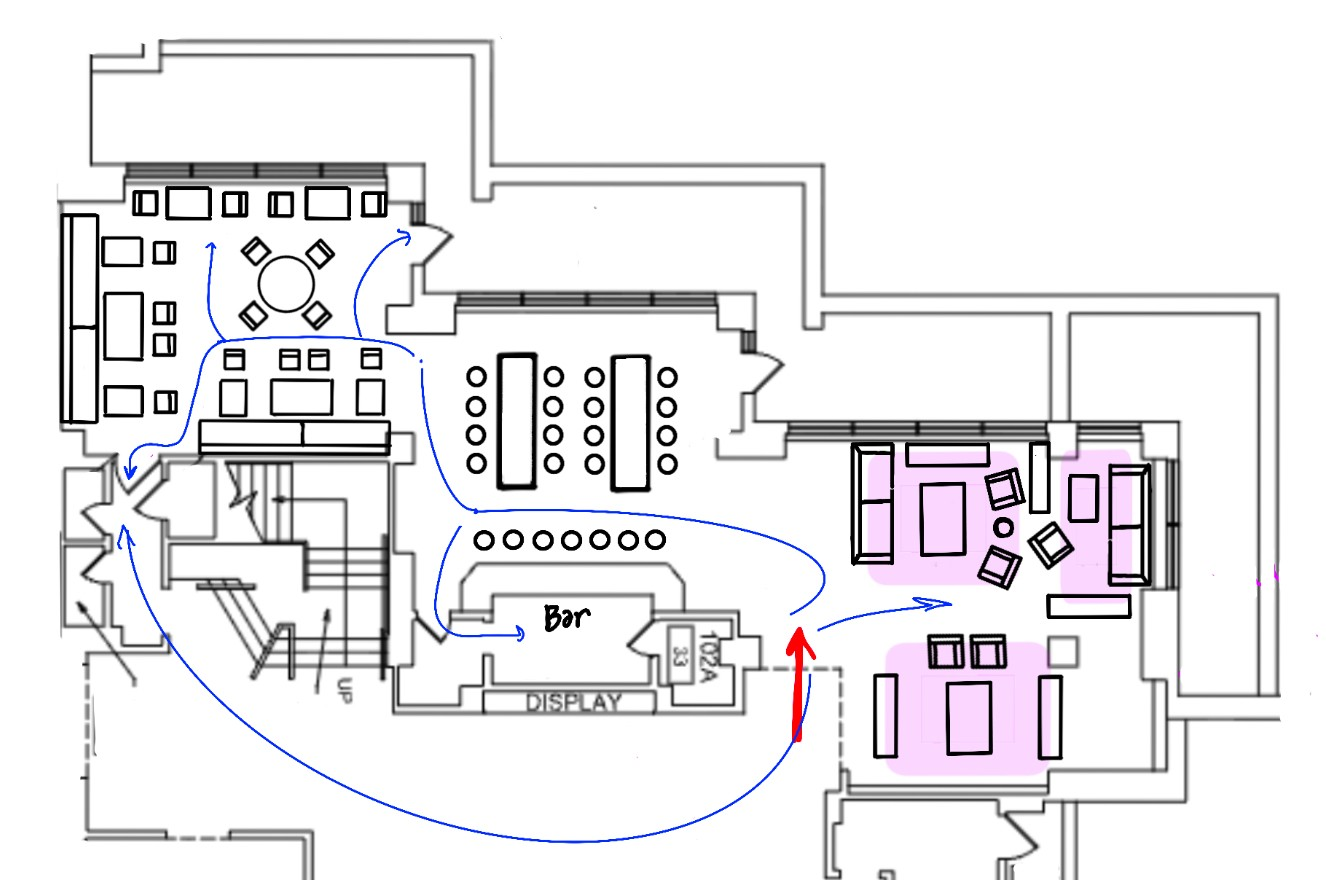
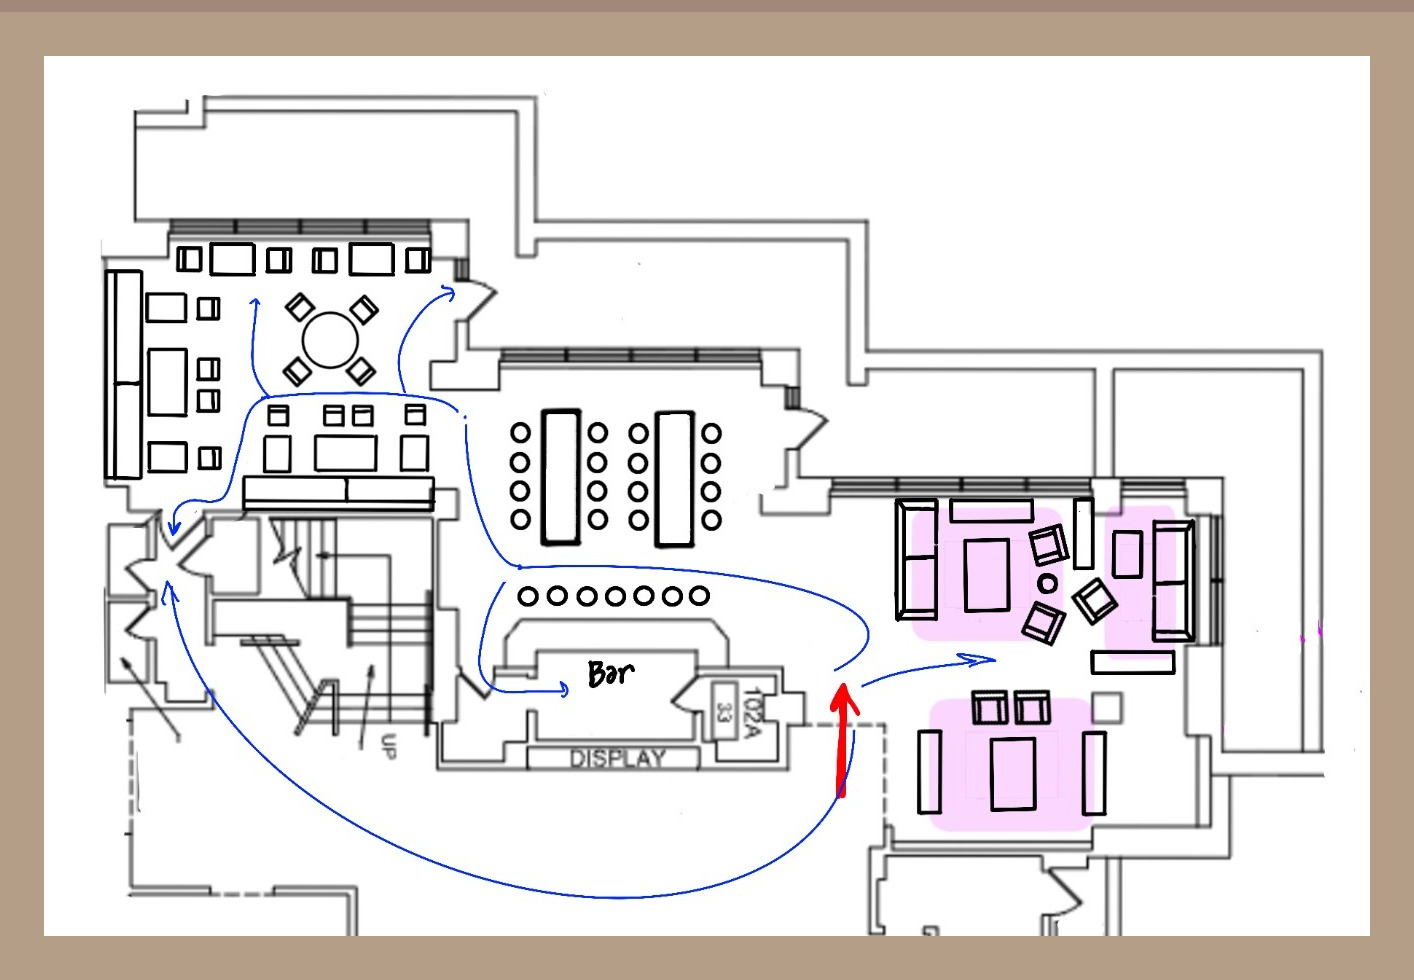
Statler: lighter brown backgrounds on all floorplans
Claude-Session: https://claude.ai/code/session_01UHrP7f3T6PvekE7nxDfNFQ

diff --git a/content/projects/statler-hotel-redesign.js b/content/projects/statler-hotel-redesign.js
@@ -32,11 +32,11 @@ addProject({
         "Long tables that only fit big parties",
         "Lounge seating that sat unused"
       ],
-        src: "assets/digital/statler/floorplan-before-clean.jpg?v=202611230440", ratio: "1326/880", caption: "The original layout and how guests moved through it",
-        back: { src: "assets/digital/statler/floorplan-before.jpg?v=202611230444", ratio: "1326/880", alt: "The original layout with my handwritten notes" },
+        src: "assets/digital/statler/floorplan-before-clean.jpg?v=202611230810", ratio: "1414/980", caption: "The original layout and how guests moved through it",
+        back: { src: "assets/digital/statler/floorplan-before.jpg?v=202611230810", ratio: "1414/980", alt: "The original layout with my handwritten notes" },
         flipLabel: "Original floorplan. Press to flip to my annotated notes.", flipHint: "↻ Click the plan to see my notes", flipBackHint: "↻ Click to flip back" },
       { label: "After", title: "The New Floorplan", body: "Guests come in from the elevator and retail entrance, pass the café, and are led by the grand stair toward the bar.",
-        src: "assets/digital/statler/floorplan-hd.jpg?v=202611230420", ratio: "2952/1596", caption: "Circulation from the entrance, past the café and stairs, to the bar" }
+        src: "assets/digital/statler/floorplan-hd.jpg?v=202611230810", ratio: "2952/1596", caption: "Circulation from the entrance, past the café and stairs, to the bar" }
     ]},
     // café full width, bar and staircase side by side below (bob's pick "E", 2026-11-23)
     { group: "The Spaces", type: "gallery", heading: "Three Zones", columns: 3, images: [

diff --git a/index.html b/index.html
@@ -8,13 +8,13 @@
 <link rel="preconnect" href="https://fonts.googleapis.com">
 <link rel="preconnect" href="https://fonts.gstatic.com" crossorigin>
 <link rel="stylesheet" href="https://fonts.googleapis.com/css2?family=Archivo:wdth,wght@62..125,700..900&family=Bricolage+Grotesque:opsz,wdth,wght@12..96,75..100,400..800&family=Instrument+Sans:wght@400;500;600&family=Instrument+Serif:ital@0;1&family=Syne:wght@700..800&family=Archivo+Narrow:wght@500;600;700&family=Caveat:wght@500;600&family=Inter:wght@400;500;600&family=Inter+Tight:wght@400;500;600;700&family=Roboto+Mono:wght@400;500&family=DM+Sans:opsz,wght@9..40,400;9..40,500&display=swap">
-<link rel="stylesheet" href="css/style.css?v=202611230758">
+<link rel="stylesheet" href="css/style.css?v=202611230802">
 </head>
 <body>
 <div id="app"></div>
-<script>window.SITE_VERSION = "202611230758";</script>
-<script src="content/site.js?v=202611230758"></script>
-<script src="js/glyphs.js?v=202611230758"></script>
-<script src="js/app.js?v=202611230758"></script>
+<script>window.SITE_VERSION = "202611230802";</script>
+<script src="content/site.js?v=202611230802"></script>
+<script src="js/glyphs.js?v=202611230802"></script>
+<script src="js/app.js?v=202611230802"></script>
 </body>
 </html>
